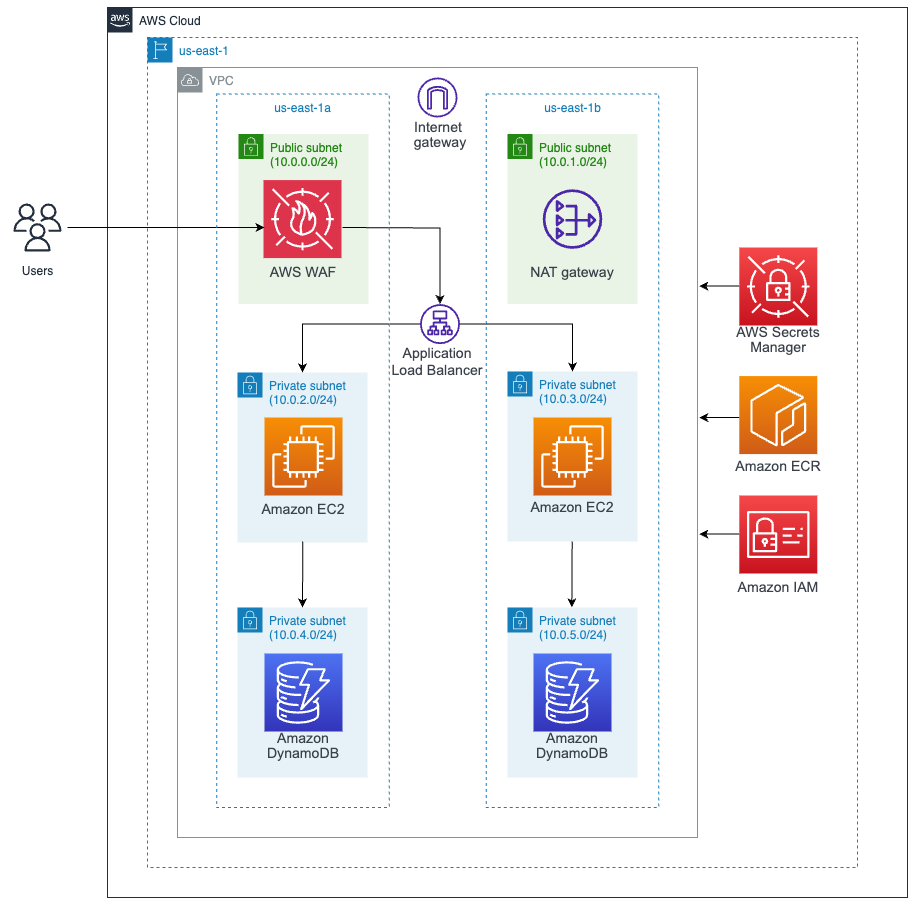
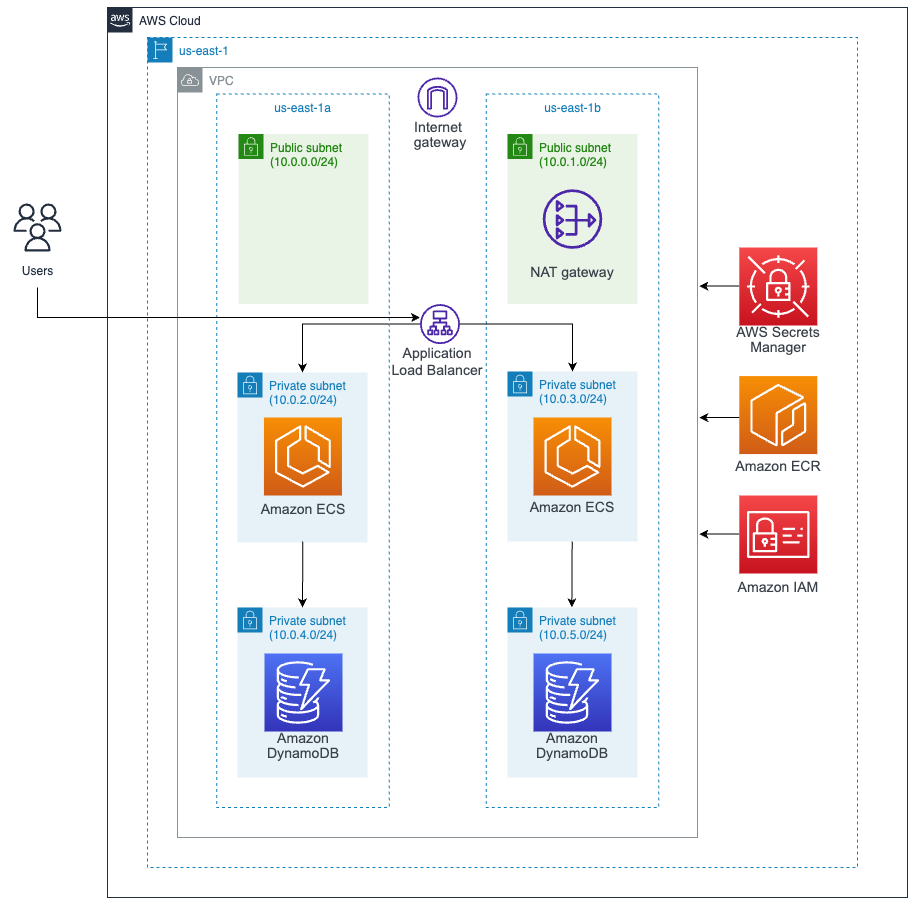
feat(docs): update arq diagram, costs

diff --git a/docs/ArchitectureAWS.md b/docs/ArchitectureAWS.md
@@ -4,26 +4,29 @@
 
 ![AWS architecture](architectureAWS.png)
 
-* VPC
-* Amazon EC2
-* Amazon DynamoDB
-* AWS WAF
-* AWS Secrets Manager
-* AWS ECR
-* Amazon IAM
+Region: North Virginia (us-east-1)
+
+* AWS VPC:
+* Amazon ECS with EC2:
+* Amazon DynamoDB:
+* AWS Secrets Manager:
+* AWS ECR:
+* Amazon IAM:
 
 ## Infrastructure Cost
 
-Costo por mes durante 24 horas:
+Cost per month for 24 hours:
 
-* VPC: 9,13 USD
-* Amazon EC2: 248,20 USD  - 2 instances - instance type: c5.xlarge  vCPUs: 4 GiB Memory: 8 GiB
-* AWS WAF: 15 USD - Number of Web ACLs utilized: 1 (ALB) Number of Rules added per Web ACL: 10
+* AWS VPC: 32,89 USD
+* Amazon EC2: 15,18 USD  - 2 instances - instance type: t3.micro  vCPUs: 2 GiB Memory: 1 GiB
+* Amazon DynamoDB: 14,21 USD - provisioned capacity, Backup and restore, Data Import and Export from Amazon S3
 * AWS Secrets Manager: 0,40 USD - Number of secrets: 1 (DynamoDB) Average duration of each secret: 30 days API calls: 50
 * AWS ECR: 0,10 USD - Amount of data stored: 1 GB
 * Amazon IAM: 0 USD
 
-**Total cost: 272,83 USD**
+**Total cost: 62,78 USD**
+
+**Check Cost Estimate provided by AWS:** [Excel with costs]()
 
 **AWS Pricing Calculator:** https://calculator.aws/#/addService
 
